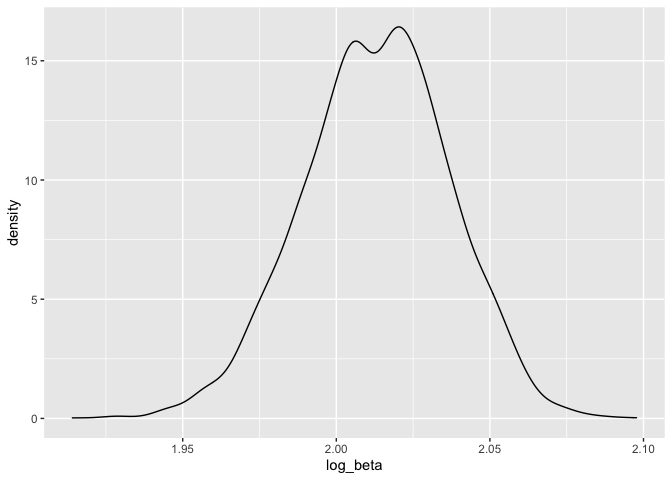
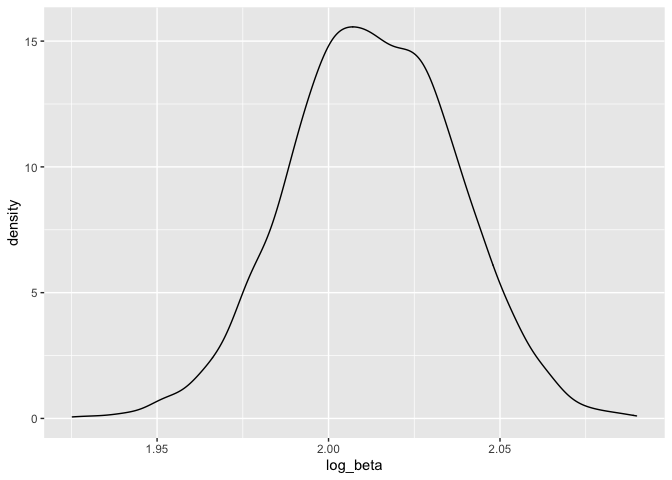
problem 3

diff --git a/p8105_hw6_xx2416.md b/p8105_hw6_xx2416.md
@@ -69,7 +69,7 @@ log_beta %>%
 ```
 
     ##     2.5%    97.5% 
-    ## 1.965081 2.057524
+    ## 1.965426 2.059054
 
 ``` r
 log_beta %>% 
@@ -92,7 +92,7 @@ r_squred %>% pull(r.squared) %>% quantile(c(0.025,0.975))
 ```
 
     ##      2.5%     97.5% 
-    ## 0.8943443 0.9276854
+    ## 0.8939865 0.9276002
 
 ``` r
 r_squred %>% 
